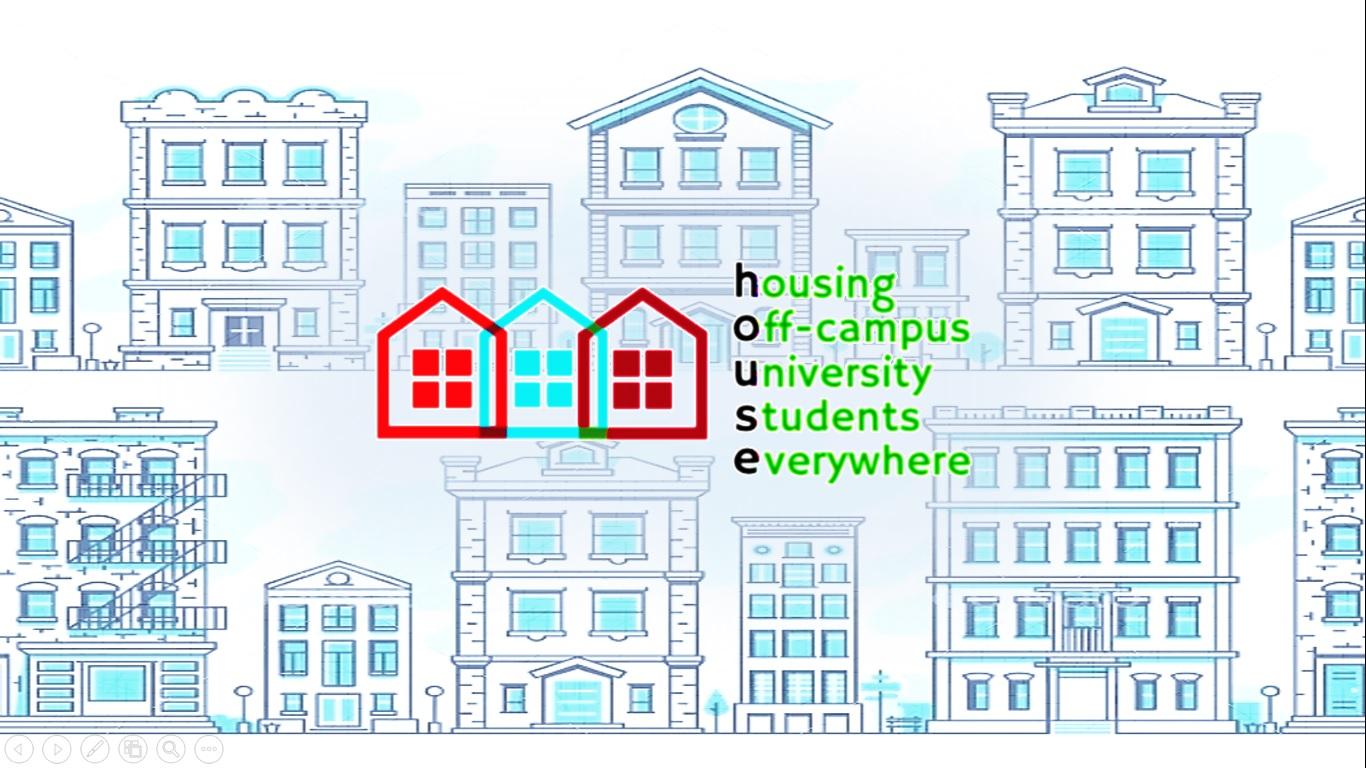
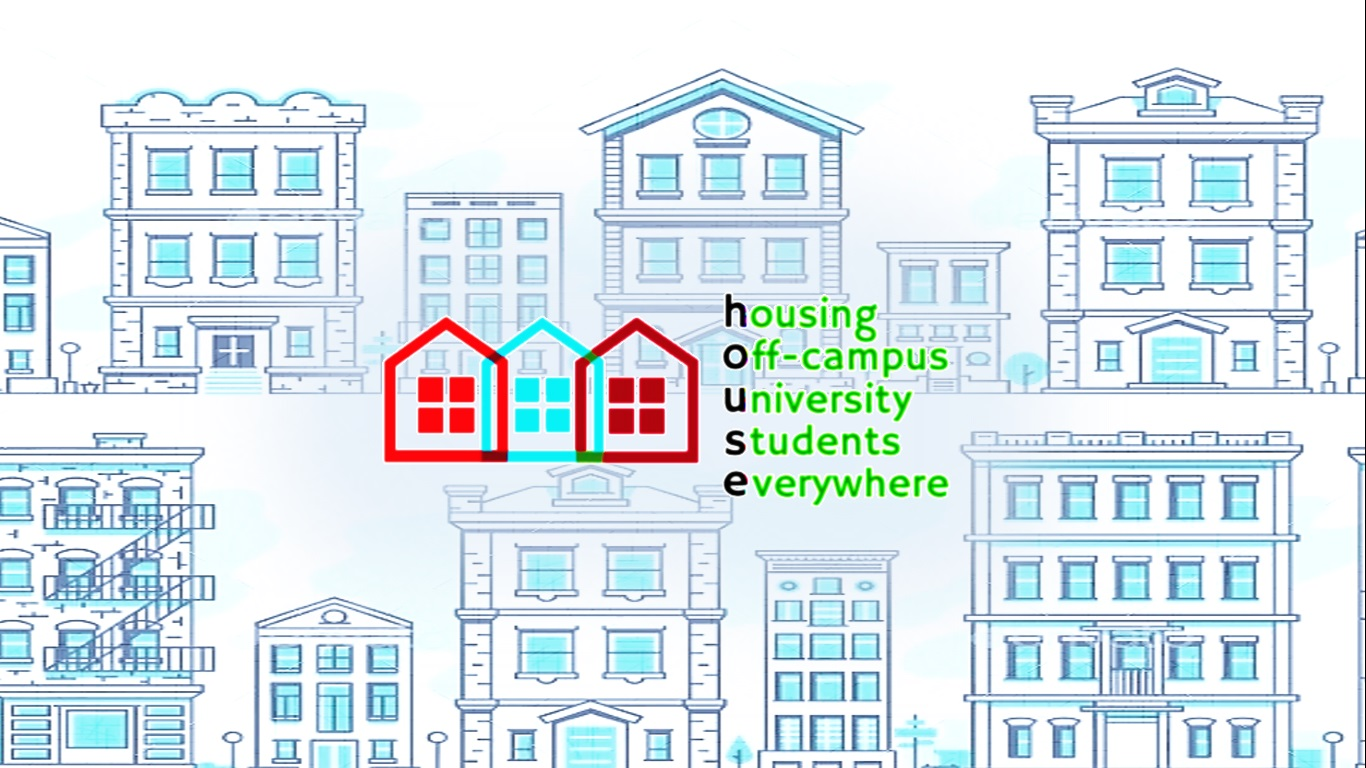
Blurry display folder backgrounf

diff --git a/react-firebase/src/components/ViewFolder/ViewFolderComponents/DisplayFolderContent.js b/react-firebase/src/components/ViewFolder/ViewFolderComponents/DisplayFolderContent.js
@@ -509,7 +509,7 @@ class DisplayFolderContent extends Component{
         return (
             <div className="backgroundImageContainer">
                 {/*<img src="" />*/}
-                <img src="https://github.com/a1rao/HOUSE/blob/master/react-firebase/src/components/ViewFolder/ViewFolderComponents/background.jpg?raw=true" alt="supp" className="backgroundImage"/>
+                <img src="https://github.com/a1rao/HOUSE/blob/master/react-firebase/src/components/ViewFolder/ViewFolderComponents/background_2.jpg?raw=true" alt="supp" className="backgroundImage"/>
                 <h1 className="title">{folderName}</h1>
                 <Button className="sortBar" variant="outline-info" onClick={() =>this.sort('_price')}>Sort By Price</Button>
                 <Button className="sortBar" variant="outline-info" onClick={() =>this.sort('_area')}>Sort By Area</Button>
